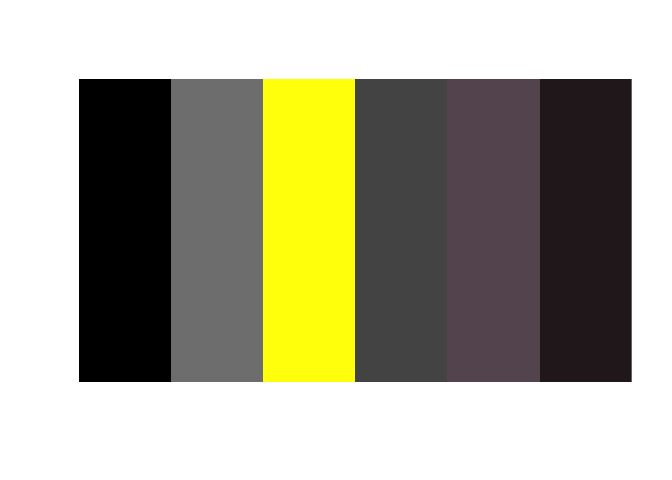
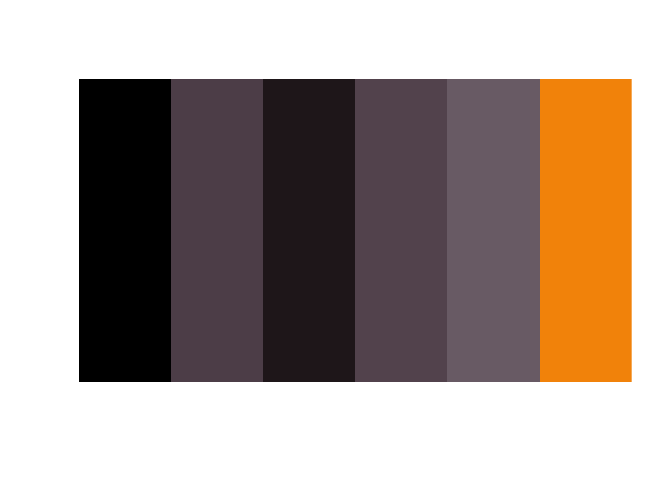
Update with higher resolution blue tit to see if yellow comes out (it doesn't)

Changed region(s): [[0.25, 0.1562, 0.5312, 0.8125], [0.7812, 0.1562, 0.9375, 0.8125]]

diff --git a/README.md b/README.md
@@ -106,7 +106,11 @@ Cropped, zoomed and centered
 
 </div>
 
-![](README_files/figure-gfm/getPalettes-1.png)<!-- -->![](README_files/figure-gfm/getPalettes-2.png)<!-- -->![](README_files/figure-gfm/getPalettes-3.png)<!-- -->![](README_files/figure-gfm/getPalettes-4.png)<!-- -->![](README_files/figure-gfm/getPalettes-5.png)<!-- -->![](README_files/figure-gfm/getPalettes-6.png)<!-- -->![](README_files/figure-gfm/getPalettes-7.png)<!-- -->![](README_files/figure-gfm/getPalettes-8.png)<!-- -->
+![](README_files/figure-gfm/getPalettes-1.png)<!-- -->![](README_files/figure-gfm/getPalettes-2.png)<!-- -->![](README_files/figure-gfm/getPalettes-3.png)<!-- -->
+
+    ## Warning: Quick-TRANSfer stage steps exceeded maximum (= 11857600)
+
+![](README_files/figure-gfm/getPalettes-4.png)<!-- -->![](README_files/figure-gfm/getPalettes-5.png)<!-- -->![](README_files/figure-gfm/getPalettes-6.png)<!-- -->![](README_files/figure-gfm/getPalettes-7.png)<!-- -->![](README_files/figure-gfm/getPalettes-8.png)<!-- -->
 
 ## And here is the final plot
 
